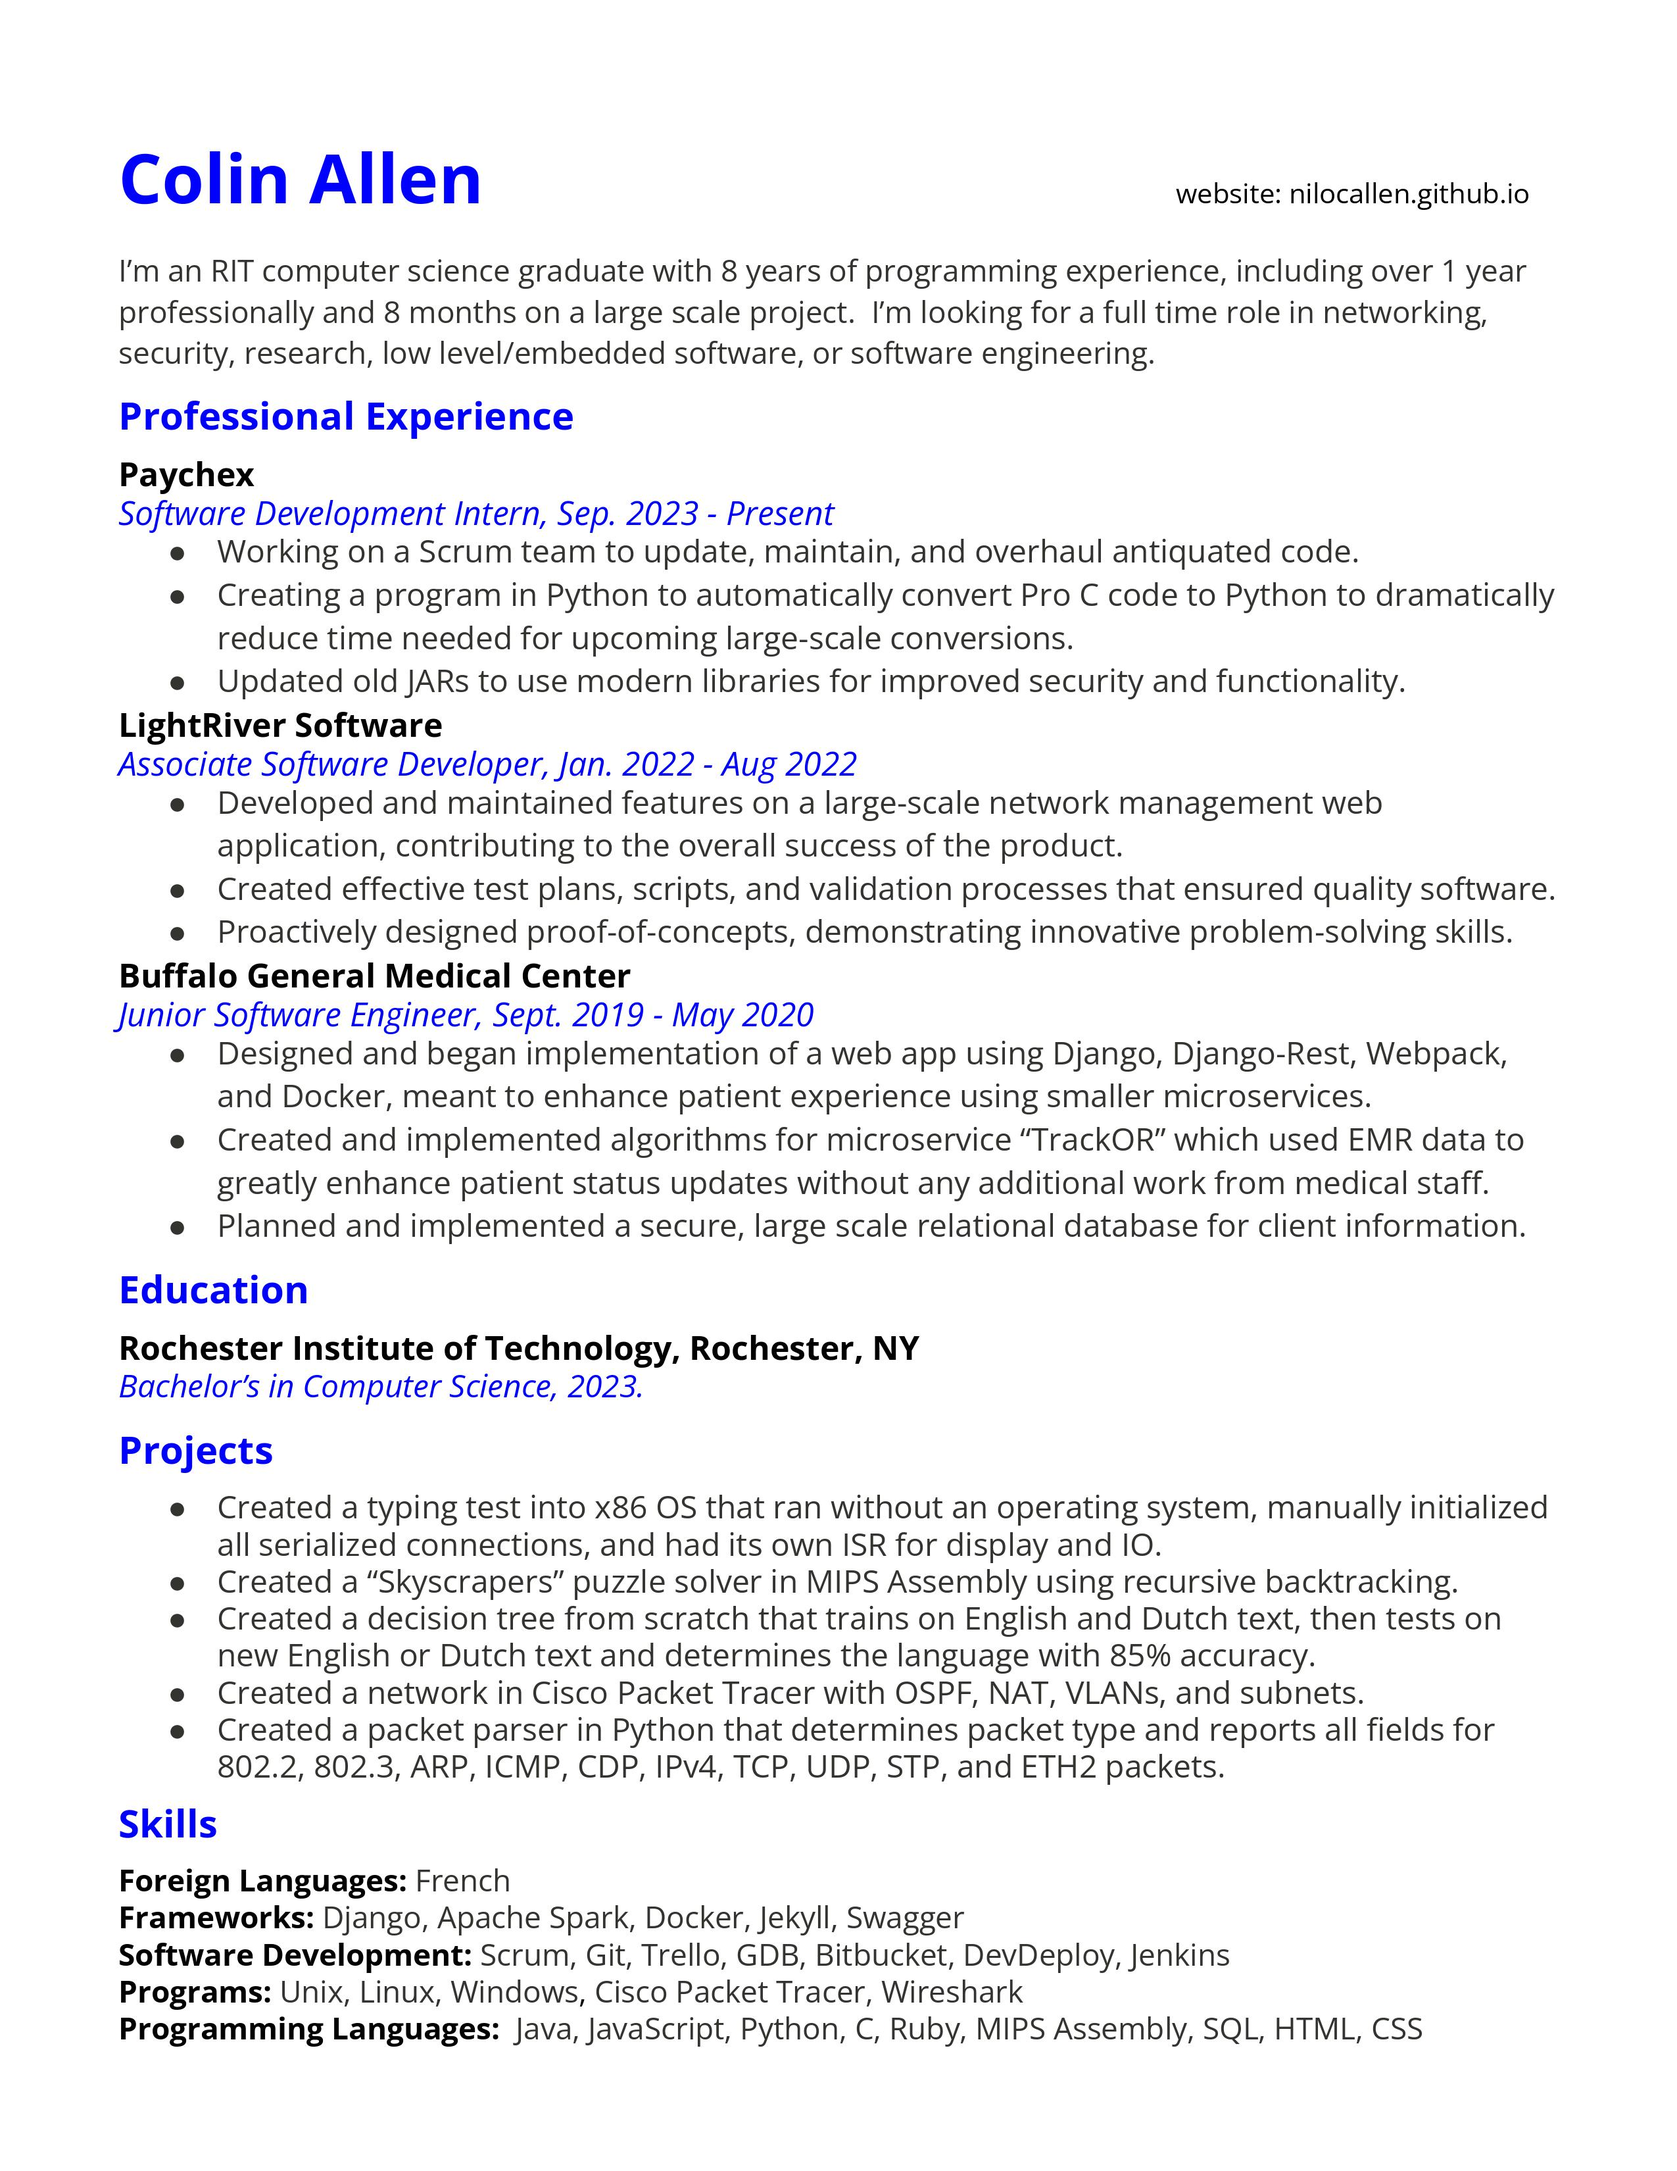
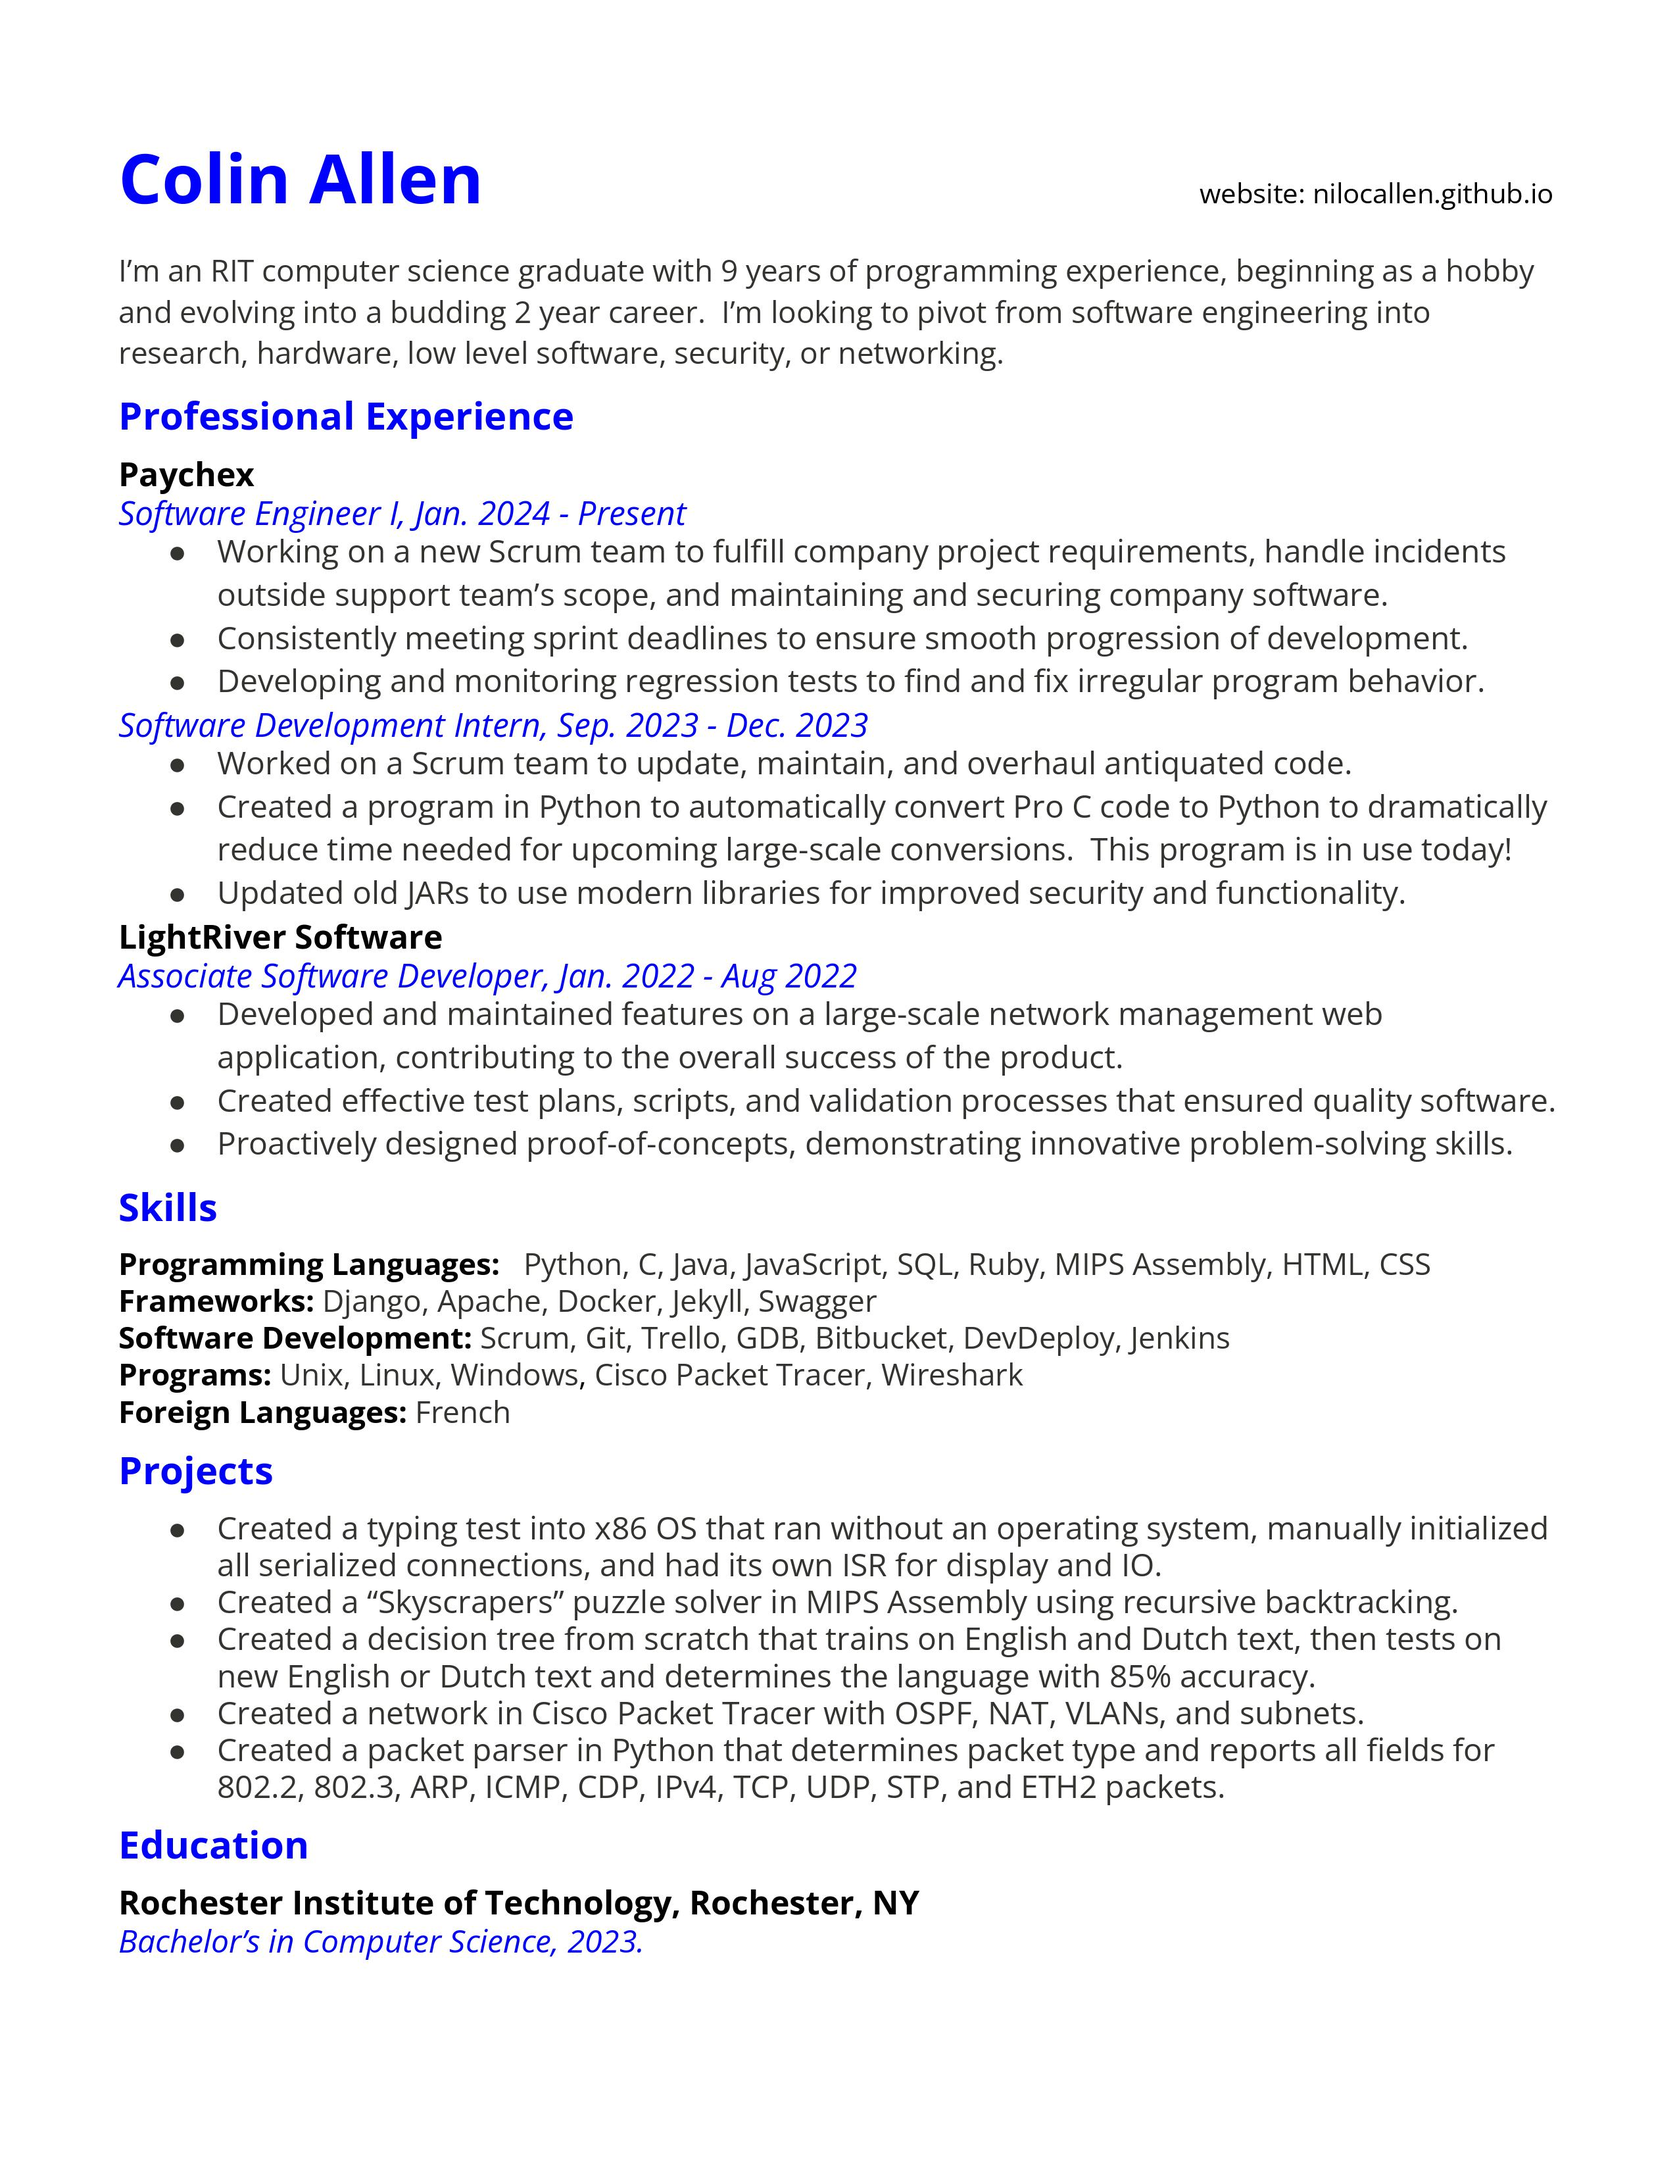
Updating for June 2024

diff --git a/_includes/team-section.html b/_includes/team-section.html
@@ -4,7 +4,7 @@
   <div class="container">
     <div class="row">
       <div class="col-12 text-center">
-        <h2 class="section-title">Our Band, "Cellar Darts"</h2>
+        <h2 class="section-title">My first band, "Cellar Darts"</h2>
       </div>
       {% for team-member in site.data.settings.team %}
       <div class="col-md-4 col-sm-6 mb-4 mb-md-0">

diff --git a/_pages/resume.html b/_pages/resume.html
@@ -2,9 +2,8 @@
 layout: page
 title: Resume
 ---
-
 <div style="text-align: center;">
-  <img src="/assets/images/resume.jpg" alt="My Resume, as of 11/29/23">
+  <img src="/assets/images/resume.jpg" alt="My Resume, as of 6/13/2024">
 </div>
 <br>
 

diff --git a/_pages/about.md b/_pages/about.md
@@ -5,8 +5,8 @@ author: Colin Allen
 image: assets/images/about/treeme1.jpg
 signature: assets/images/about/signature.png
 ---
-Hey there!  I'm a computer science grad from RIT seeking a full-time, preferably remote <br>or NYC stationed
-role in computer science research, networking, cyber security, low-level/embedded systems, or software engineering. 
+Hey there!  I'm a computer science grad from RIT seeking a full-time, remote <br>or Boston stationed
+role in computer science research, networking, cyber security, or low-level/embedded systems. 
 
 Although I'm open minded in which roles I'm seeking, I do have a few special interests that I would love to 
 professionally explore.  Firstly, I love tying software to hardware.  This interest first blossomed in 
@@ -19,5 +19,5 @@ network management software and a course at RIT on networking and data communica
 creating and defending resilient and secure networks and would love to try my hand as a network engineer or
 cyber security agent. 
 
-I also love to be creative, and I do so these days by drumming for a band called Cellar Darts.  Our <a href="https://open.spotify.com/track/3by7mJaH793EiHkIzPijz4?si=1e1a98d8d0ba4da3" target="_blank">first single</a> is out now!  This is what I've been pursuing in the time from my last classes until now.  I've improved greatly and formed memories I'll always hold at our first concert on 4/01/23, but now I'm
-ready to juggle both my musical passion and my career interests.  
+I also love to be creative, which I channel through music.  My first band in Rochester, who I drummed for, released <a href="https://open.spotify.com/track/3by7mJaH793EiHkIzPijz4?si=1e1a98d8d0ba4da3" target="_blank">one single</a> before we parted ways.  My time with them was invaluable.  I
+improved greatly, and I learned that I want to pursue music for as long as I can.

diff --git a/_projects/2023-05-02-orienteering-project.md b/_projects/2023-05-02-orienteering-project.md
@@ -80,7 +80,7 @@ travel. In reality, most paths will not involve straight line travel, making
 them longer. This quality guarantees that the AI’s output is the optimal
 path.
 
-<h5>4. The cost function</h5>
+<h4>4. The cost function</h4>
 The cost function is used to determine the estimated total cost of the
 current path when it is completed. It is defined as
 f(x) = g(start, x) + h(x, end) | g = distance from start, h = heuristic (estimated
@@ -163,7 +163,7 @@ in elevations from the land cell to the water cell that made it is less than 1
 meter, the land cell is added to a list called mud and then turned into mud.
 After the waters list is emptied, waters is set to mud and the process repeats
 until all cells within 15 cells of water have been examined and transformed
-accordingly
+accordingly.
 <div style="text-align: center;">
   <img src="/assets/images/projects/orienteering/spring-code.png" alt="Code for spring weather">
 </div>
